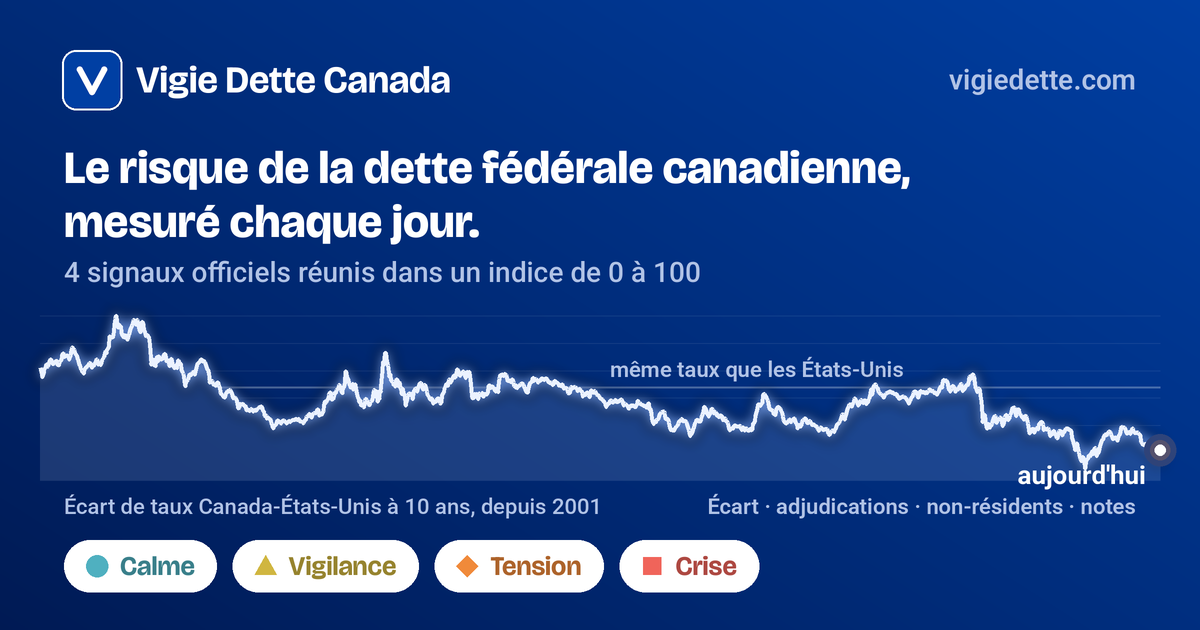
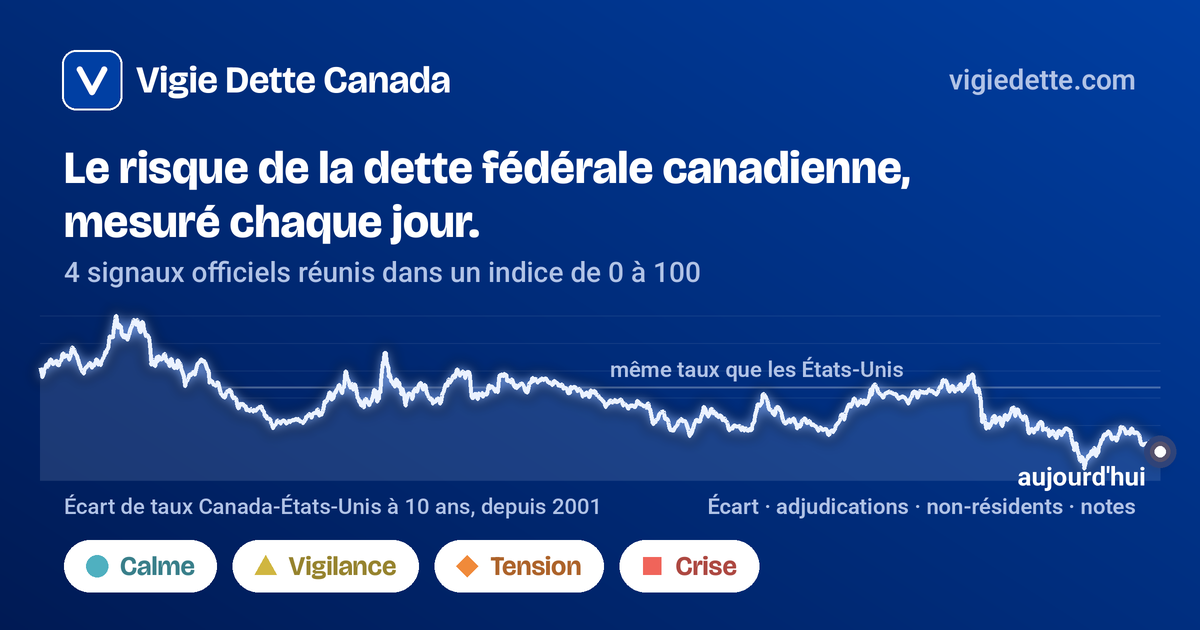
Données du 2026-11-10

diff --git a/canada/index.html b/canada/index.html
@@ -22,7 +22,7 @@
 <meta property="og:url" data-i18n-attr="content:url" content="https://vigiedette.com/canada/">
 <meta property="og:title" data-i18n-attr="content:titre" content="Vigie Dette Canada · Le risque de la dette fédérale, chaque jour">
 <meta property="og:description" data-instantane="resume" content="Indice Vigie 15/100, calme. Les signaux de la dette canadienne sont calmes. Le reste des marchés financiers est aussi calme.">
-<meta property="og:image" data-instantane="image" content="https://vigiedette.com/assets/images/partage-canada-fr.png?v=43f84a84">
+<meta property="og:image" data-instantane="image" content="https://vigiedette.com/assets/images/partage-canada-fr.png?v=d7a544ac">
 <meta property="og:image:width" content="1200">
 <meta property="og:image:height" content="630">
 <meta property="og:image:alt" data-i18n-attr="content:image.alt" content="Vigie Dette Canada : le risque de la dette fédérale canadienne, mesuré chaque jour, avec l’écart de taux Canada-États-Unis à 10 ans depuis 2001">
@@ -83,7 +83,7 @@
       "inLanguage": "fr",
       "name": "Vigie Dette Canada · Le risque de la dette fédérale, chaque jour",
       "description": "Indice Vigie 15/100, calme. Les signaux de la dette canadienne sont calmes. Le reste des marchés financiers est aussi calme.",
-      "dateModified": "2026-11-06",
+      "dateModified": "2026-11-09",
       "isPartOf": {
         "@id": "https://vigiedette.com/#site"
       },
@@ -134,7 +134,7 @@
             <p class="repere" id="repere" hidden><span id="repere-texte"></span> <button type="button" class="info" id="repere-info" data-tip="" aria-label="Détail du repère" data-i18n-attr="aria-label:repere.aria">i</button></p>
     </div>
     <p class="stamp">
-      <span id="donnees">Données du 6 nov. 2026</span>
+      <span id="donnees">Données du 9 nov. 2026</span>
       <a class="retour" href="/canada/methode.html" data-i18n="entete.methode">Méthode de calcul</a>
     </p>
     <div id="indice-desc"><details class="desc"><summary><span class="desc-ouvrir">Afficher la description</span><span class="desc-fermer">Masquer la description</span></summary></details></div>
@@ -143,7 +143,7 @@
 
 <main class="wrap">
 
-  <section class="summary signals-summary" id="summary" aria-label="Synthèse des quatre signaux" data-i18n-attr="aria-label:ca.synthese.aria"><a class="tile" href="#spread" data-level="calme"><span class="tile-name">Écart Canada-États-Unis 10 ans</span><span class="tile-value">-121 pb</span><span class="pill" data-level="calme">Calme</span><span class="tile-sub">Canada 10 ans 3,65 %</span></a><a class="tile" href="#adjudications" data-level="vigilance"><span class="tile-name">Couverture des adjudications</span><span class="tile-value">2,22</span><span class="pill" data-level="vigilance">Vigilance</span></a><a class="tile" href="#non-residents" data-level="calme"><span class="tile-name">Part des non-résidents</span><span class="tile-value">45,9 %</span><span class="pill" data-level="calme">Calme</span></a><a class="tile" href="#notations" data-level="calme"><span class="tile-name">Note la plus basse</span><span class="tile-value">AA+</span><span class="pill" data-level="calme">Calme</span></a></section>
+  <section class="summary signals-summary" id="summary" aria-label="Synthèse des quatre signaux" data-i18n-attr="aria-label:ca.synthese.aria"><a class="tile" href="#spread" data-level="calme"><span class="tile-name">Écart Canada-États-Unis 10 ans</span><span class="tile-value">-125 pb</span><span class="pill" data-level="calme">Calme</span><span class="tile-sub">Canada 10 ans 3,63 %</span></a><a class="tile" href="#adjudications" data-level="vigilance"><span class="tile-name">Couverture des adjudications</span><span class="tile-value">2,22</span><span class="pill" data-level="vigilance">Vigilance</span></a><a class="tile" href="#non-residents" data-level="calme"><span class="tile-name">Part des non-résidents</span><span class="tile-value">45,9 %</span><span class="pill" data-level="calme">Calme</span></a><a class="tile" href="#notations" data-level="calme"><span class="tile-name">Note la plus basse</span><span class="tile-value">AA+</span><span class="pill" data-level="calme">Calme</span></a></section>
 
   <div class="signals">
 
@@ -183,8 +183,8 @@
           <h2 data-i18n="ca.spread.titre">Écart de taux Canada-États-Unis</h2>
         </div>
         <div class="signal-mesure">
-          <div class="signal-now"><span class="big" data-now="spread">-121 pb</span><span class="pill" data-pill="spread" data-level="calme">Calme</span><button type="button" class="info" data-delta="spread" data-tip="" aria-label="Détail du chiffre" data-i18n-attr="aria-label:chiffre.aria">i</button></div>
-          <p class="signal-taux" data-taux="spread">Canada 10 ans 3,65 % · États-Unis 4,86 %</p>
+          <div class="signal-now"><span class="big" data-now="spread">-125 pb</span><span class="pill" data-pill="spread" data-level="calme">Calme</span><button type="button" class="info" data-delta="spread" data-tip="" aria-label="Détail du chiffre" data-i18n-attr="aria-label:chiffre.aria">i</button></div>
+          <p class="signal-taux" data-taux="spread">Canada 10 ans 3,63 % · États-Unis 4,88 %</p>
         </div>
       </div>
       <details class="desc">

diff --git a/en/canada/index.html b/en/canada/index.html
@@ -22,7 +22,7 @@
 <meta property="og:url" data-i18n-attr="content:url" content="https://vigiedette.com/en/canada/">
 <meta property="og:title" data-i18n-attr="content:titre" content="Vigie Dette Canada · Canadian federal debt risk, every day">
 <meta property="og:description" data-instantane="resume" content="Vigie Index 15/100, calm. Canadian debt signals are calm. The rest of the financial markets are also calm.">
-<meta property="og:image" data-instantane="image" content="https://vigiedette.com/assets/images/partage-canada-en.png?v=d2849a65">
+<meta property="og:image" data-instantane="image" content="https://vigiedette.com/assets/images/partage-canada-en.png?v=01573e93">
 <meta property="og:image:width" content="1200">
 <meta property="og:image:height" content="630">
 <meta property="og:image:alt" data-i18n-attr="content:image.alt" content="Vigie Dette Canada: the risk on Canadian federal debt, measured every day, with the Canada-US 10-year yield gap since 2001">
@@ -83,7 +83,7 @@
       "inLanguage": "en",
       "name": "Vigie Dette Canada · Canadian federal debt risk, every day",
       "description": "Vigie Index 15/100, calm. Canadian debt signals are calm. The rest of the financial markets are also calm.",
-      "dateModified": "2026-11-06",
+      "dateModified": "2026-11-09",
       "isPartOf": {
         "@id": "https://vigiedette.com/#site"
       },
@@ -134,7 +134,7 @@
             <p class="repere" id="repere" hidden><span id="repere-texte"></span> <button type="button" class="info" id="repere-info" data-tip="" aria-label="Details of this landmark" data-i18n-attr="aria-label:repere.aria">i</button></p>
     </div>
     <p class="stamp">
-      <span id="donnees">Data as of 6 Nov 2026</span>
+      <span id="donnees">Data as of 9 Nov 2026</span>
       <a class="retour" href="/en/canada/methode.html" data-i18n="entete.methode">How it is calculated</a>
     </p>
     <div id="indice-desc"><details class="desc"><summary><span class="desc-ouvrir">Show the description</span><span class="desc-fermer">Hide the description</span></summary></details></div>
@@ -143,7 +143,7 @@
 
 <main class="wrap">
 
-  <section class="summary signals-summary" id="summary" aria-label="Summary of the four signals" data-i18n-attr="aria-label:ca.synthese.aria"><a class="tile" href="#spread" data-level="calme"><span class="tile-name">10-year Canada-US gap</span><span class="tile-value">-121 bp</span><span class="pill" data-level="calme">Calm</span><span class="tile-sub">10-year Canada 3.65%</span></a><a class="tile" href="#adjudications" data-level="vigilance"><span class="tile-name">Auction cover</span><span class="tile-value">2.22</span><span class="pill" data-level="vigilance">Watch</span></a><a class="tile" href="#non-residents" data-level="calme"><span class="tile-name">Non-resident share</span><span class="tile-value">45.9%</span><span class="pill" data-level="calme">Calm</span></a><a class="tile" href="#notations" data-level="calme"><span class="tile-name">Lowest rating</span><span class="tile-value">AA+</span><span class="pill" data-level="calme">Calm</span></a></section>
+  <section class="summary signals-summary" id="summary" aria-label="Summary of the four signals" data-i18n-attr="aria-label:ca.synthese.aria"><a class="tile" href="#spread" data-level="calme"><span class="tile-name">10-year Canada-US gap</span><span class="tile-value">-125 bp</span><span class="pill" data-level="calme">Calm</span><span class="tile-sub">10-year Canada 3.63%</span></a><a class="tile" href="#adjudications" data-level="vigilance"><span class="tile-name">Auction cover</span><span class="tile-value">2.22</span><span class="pill" data-level="vigilance">Watch</span></a><a class="tile" href="#non-residents" data-level="calme"><span class="tile-name">Non-resident share</span><span class="tile-value">45.9%</span><span class="pill" data-level="calme">Calm</span></a><a class="tile" href="#notations" data-level="calme"><span class="tile-name">Lowest rating</span><span class="tile-value">AA+</span><span class="pill" data-level="calme">Calm</span></a></section>
 
   <div class="signals">
 
@@ -183,8 +183,8 @@
           <h2 data-i18n="ca.spread.titre">Canada-US yield gap</h2>
         </div>
         <div class="signal-mesure">
-          <div class="signal-now"><span class="big" data-now="spread">-121 bp</span><span class="pill" data-pill="spread" data-level="calme">Calm</span><button type="button" class="info" data-delta="spread" data-tip="" aria-label="Details of the figure" data-i18n-attr="aria-label:chiffre.aria">i</button></div>
-          <p class="signal-taux" data-taux="spread">10-year Canada 3.65% · US 4.86%</p>
+          <div class="signal-now"><span class="big" data-now="spread">-125 bp</span><span class="pill" data-pill="spread" data-level="calme">Calm</span><button type="button" class="info" data-delta="spread" data-tip="" aria-label="Details of the figure" data-i18n-attr="aria-label:chiffre.aria">i</button></div>
+          <p class="signal-taux" data-taux="spread">10-year Canada 3.63% · US 4.88%</p>
         </div>
       </div>
       <details class="desc">

diff --git a/canada/ecart-taux-canada-etats-unis/index.html b/canada/ecart-taux-canada-etats-unis/index.html
@@ -21,8 +21,8 @@
 <meta property="og:locale" data-i18n-attr="content:og.locale" content="fr_CA">
 <meta property="og:url" data-i18n-attr="content:url" content="https://vigiedette.com/canada/ecart-taux-canada-etats-unis/">
 <meta property="og:title" data-i18n-attr="content:titre" content="Écart de taux Canada-États-Unis à 10 ans aujourd’hui · Vigie Dette Canada">
-<meta property="og:description" data-instantane="resume" content="L’écart entre les taux à 10 ans du Canada et des États-Unis est de -121 pb, niveau calme.">
-<meta property="og:image" data-instantane="image" content="https://vigiedette.com/assets/images/partage-canada-fr.png?v=43f84a84">
+<meta property="og:description" data-instantane="resume" content="L’écart entre les taux à 10 ans du Canada et des États-Unis est de -125 pb, niveau calme.">
+<meta property="og:image" data-instantane="image" content="https://vigiedette.com/assets/images/partage-canada-fr.png?v=d7a544ac">
 <meta property="og:image:width" content="1200">
 <meta property="og:image:height" content="630">
 <meta property="og:image:alt" data-i18n-attr="content:image.alt" content="Vigie Dette Canada : le risque de la dette fédérale canadienne, mesuré chaque jour, avec l’écart de taux Canada-États-Unis à 10 ans depuis 2001">
@@ -37,8 +37,8 @@
       "url": "https://vigiedette.com/canada/ecart-taux-canada-etats-unis/",
       "inLanguage": "fr",
       "name": "Écart de taux Canada-États-Unis à 10 ans aujourd’hui · Vigie Dette Canada",
-      "description": "L’écart entre les taux à 10 ans du Canada et des États-Unis est de -121 pb, niveau calme.",
-      "dateModified": "2026-11-06",
+      "description": "L’écart entre les taux à 10 ans du Canada et des États-Unis est de -125 pb, niveau calme.",
+      "dateModified": "2026-11-09",
       "isPartOf": {
         "@id": "https://vigiedette.com/#site"
       },
@@ -98,9 +98,9 @@
         <button class="btn-icone" id="theme-toggle" type="button" aria-label="Changer de thème, clair ou sombre" data-tip="Thème clair ou sombre" data-i18n-attr="aria-label:theme.aria;data-tip:theme.tip"><svg viewBox="0 0 24 24" aria-hidden="true"><path d="M12 7c-2.76 0-5 2.24-5 5s2.24 5 5 5 5-2.24 5-5-2.24-5-5-5zM2 13h2c.55 0 1-.45 1-1s-.45-1-1-1H2c-.55 0-1 .45-1 1s.45 1 1 1zm18 0h2c.55 0 1-.45 1-1s-.45-1-1-1h-2c-.55 0-1 .45-1 1s.45 1 1 1zM11 2v2c0 .55.45 1 1 1s1-.45 1-1V2c0-.55-.45-1-1-1s-1 .45-1 1zm0 18v2c0 .55.45 1 1 1s1-.45 1-1v-2c0-.55-.45-1-1-1s-1 .45-1 1zM5.99 4.58c-.39-.39-1.03-.39-1.41 0-.39.39-.39 1.03 0 1.41l1.06 1.06c.39.39 1.03.39 1.41 0s.39-1.03 0-1.41L5.99 4.58zm12.37 12.37c-.39-.39-1.03-.39-1.41 0-.39.39-.39 1.03 0 1.41l1.06 1.06c.39.39 1.03.39 1.41 0 .39-.39.39-1.03 0-1.41l-1.06-1.06zm1.06-10.96c.39-.39.39-1.03 0-1.41-.39-.39-1.03-.39-1.41 0l-1.06 1.06c-.39.39-.39 1.03 0 1.41s1.03.39 1.41 0l1.06-1.06zM7.05 18.36c.39-.39.39-1.03 0-1.41-.39-.39-1.03-.39-1.41 0l-1.06 1.06c-.39.39-.39 1.03 0 1.41s1.03.39 1.41 0l1.06-1.06z"/></svg></button>
       </div>
     </div>
-    <p class="verdict">L’écart entre les taux à 10 ans du Canada et des États-Unis est de -121 pb, niveau calme.</p>
+    <p class="verdict">L’écart entre les taux à 10 ans du Canada et des États-Unis est de -125 pb, niveau calme.</p>
     <p class="stamp">
-      <span id="donnees">Données du 6 nov. 2026</span>
+      <span id="donnees">Données du 9 nov. 2026</span>
       <a class="retour" href="/canada/">← Tableau de bord</a>
       <a class="retour" href="/canada/methode.html">Méthode de calcul</a>
     </p>
@@ -117,8 +117,8 @@
           <h2 data-i18n="ca.spread.titre">Écart de taux Canada-États-Unis</h2>
         </div>
         <div class="signal-mesure">
-          <div class="signal-now"><span class="big" data-now="spread">-121 pb</span><span class="pill" data-pill="spread" data-level="calme">Calme</span><button type="button" class="info" data-delta="spread" data-tip="" aria-label="Détail du chiffre" data-i18n-attr="aria-label:chiffre.aria">i</button></div>
-          <p class="signal-taux" data-taux="spread">Canada 10 ans 3,65 % · États-Unis 4,86 %</p>
+          <div class="signal-now"><span class="big" data-now="spread">-125 pb</span><span class="pill" data-pill="spread" data-level="calme">Calme</span><button type="button" class="info" data-delta="spread" data-tip="" aria-label="Détail du chiffre" data-i18n-attr="aria-label:chiffre.aria">i</button></div>
+          <p class="signal-taux" data-taux="spread">Canada 10 ans 3,63 % · États-Unis 4,88 %</p>
         </div>
       </div>
       <details class="desc">

diff --git a/en/canada/canada-us-bond-spread/index.html b/en/canada/canada-us-bond-spread/index.html
@@ -21,8 +21,8 @@
 <meta property="og:locale" data-i18n-attr="content:og.locale" content="en_CA">
 <meta property="og:url" data-i18n-attr="content:url" content="https://vigiedette.com/en/canada/canada-us-bond-spread/">
 <meta property="og:title" data-i18n-attr="content:titre" content="10-year Canada-US yield gap today · Vigie Dette Canada">
-<meta property="og:description" data-instantane="resume" content="The gap between Canada’s and the US 10-year yields is -121 bp, calm level.">
-<meta property="og:image" data-instantane="image" content="https://vigiedette.com/assets/images/partage-canada-en.png?v=d2849a65">
+<meta property="og:description" data-instantane="resume" content="The gap between Canada’s and the US 10-year yields is -125 bp, calm level.">
+<meta property="og:image" data-instantane="image" content="https://vigiedette.com/assets/images/partage-canada-en.png?v=01573e93">
 <meta property="og:image:width" content="1200">
 <meta property="og:image:height" content="630">
 <meta property="og:image:alt" data-i18n-attr="content:image.alt" content="Vigie Dette Canada: the risk on Canadian federal debt, measured every day, with the Canada-US 10-year yield gap since 2001">
@@ -37,8 +37,8 @@
       "url": "https://vigiedette.com/en/canada/canada-us-bond-spread/",
       "inLanguage": "en",
       "name": "10-year Canada-US yield gap today · Vigie Dette Canada",
-      "description": "The gap between Canada’s and the US 10-year yields is -121 bp, calm level.",
-      "dateModified": "2026-11-06",
+      "description": "The gap between Canada’s and the US 10-year yields is -125 bp, calm level.",
+      "dateModified": "2026-11-09",
       "isPartOf": {
         "@id": "https://vigiedette.com/#site"
       },
@@ -98,9 +98,9 @@
         <button class="btn-icone" id="theme-toggle" type="button" aria-label="Switch between light and dark theme" data-tip="Light or dark theme" data-i18n-attr="aria-label:theme.aria;data-tip:theme.tip"><svg viewBox="0 0 24 24" aria-hidden="true"><path d="M12 7c-2.76 0-5 2.24-5 5s2.24 5 5 5 5-2.24 5-5-2.24-5-5-5zM2 13h2c.55 0 1-.45 1-1s-.45-1-1-1H2c-.55 0-1 .45-1 1s.45 1 1 1zm18 0h2c.55 0 1-.45 1-1s-.45-1-1-1h-2c-.55 0-1 .45-1 1s.45 1 1 1zM11 2v2c0 .55.45 1 1 1s1-.45 1-1V2c0-.55-.45-1-1-1s-1 .45-1 1zm0 18v2c0 .55.45 1 1 1s1-.45 1-1v-2c0-.55-.45-1-1-1s-1 .45-1 1zM5.99 4.58c-.39-.39-1.03-.39-1.41 0-.39.39-.39 1.03 0 1.41l1.06 1.06c.39.39 1.03.39 1.41 0s.39-1.03 0-1.41L5.99 4.58zm12.37 12.37c-.39-.39-1.03-.39-1.41 0-.39.39-.39 1.03 0 1.41l1.06 1.06c.39.39 1.03.39 1.41 0 .39-.39.39-1.03 0-1.41l-1.06-1.06zm1.06-10.96c.39-.39.39-1.03 0-1.41-.39-.39-1.03-.39-1.41 0l-1.06 1.06c-.39.39-.39 1.03 0 1.41s1.03.39 1.41 0l1.06-1.06zM7.05 18.36c.39-.39.39-1.03 0-1.41-.39-.39-1.03-.39-1.41 0l-1.06 1.06c-.39.39-.39 1.03 0 1.41s1.03.39 1.41 0l1.06-1.06z"/></svg></button>
       </div>
     </div>
-    <p class="verdict">The gap between Canada’s and the US 10-year yields is -121 bp, calm level.</p>
+    <p class="verdict">The gap between Canada’s and the US 10-year yields is -125 bp, calm level.</p>
     <p class="stamp">
-      <span id="donnees">Data as of 6 Nov 2026</span>
+      <span id="donnees">Data as of 9 Nov 2026</span>
       <a class="retour" href="/en/canada/">← Dashboard</a>
       <a class="retour" href="/en/canada/methode.html">How it is calculated</a>
     </p>
@@ -117,8 +117,8 @@
           <h2 data-i18n="ca.spread.titre">Canada-US yield gap</h2>
         </div>
         <div class="signal-mesure">
-          <div class="signal-now"><span class="big" data-now="spread">-121 bp</span><span class="pill" data-pill="spread" data-level="calme">Calm</span><button type="button" class="info" data-delta="spread" data-tip="" aria-label="Details of the figure" data-i18n-attr="aria-label:chiffre.aria">i</button></div>
-          <p class="signal-taux" data-taux="spread">10-year Canada 3.65% · US 4.86%</p>
+          <div class="signal-now"><span class="big" data-now="spread">-125 bp</span><span class="pill" data-pill="spread" data-level="calme">Calm</span><button type="button" class="info" data-delta="spread" data-tip="" aria-label="Details of the figure" data-i18n-attr="aria-label:chiffre.aria">i</button></div>
+          <p class="signal-taux" data-taux="spread">10-year Canada 3.63% · US 4.88%</p>
         </div>
       </div>
       <details class="desc">

diff --git a/canada/adjudications-obligations-canada/index.html b/canada/adjudications-obligations-canada/index.html
@@ -22,7 +22,7 @@
 <meta property="og:url" data-i18n-attr="content:url" content="https://vigiedette.com/canada/adjudications-obligations-canada/">
 <meta property="og:title" data-i18n-attr="content:titre" content="Adjudications d’obligations du Canada à 10 ans, taux de couverture · Vigie Dette Canada">
 <meta property="og:description" data-instantane="resume" content="À la dernière adjudication d’obligations à 10 ans, les investisseurs ont demandé 2,22 fois le montant vendu, niveau vigilance.">
-<meta property="og:image" data-instantane="image" content="https://vigiedette.com/assets/images/partage-canada-fr.png?v=43f84a84">
+<meta property="og:image" data-instantane="image" content="https://vigiedette.com/assets/images/partage-canada-fr.png?v=d7a544ac">
 <meta property="og:image:width" content="1200">
 <meta property="og:image:height" content="630">
 <meta property="og:image:alt" data-i18n-attr="content:image.alt" content="Vigie Dette Canada : le risque de la dette fédérale canadienne, mesuré chaque jour, avec l’écart de taux Canada-États-Unis à 10 ans depuis 2001">
@@ -38,7 +38,7 @@
       "inLanguage": "fr",
       "name": "Adjudications d’obligations du Canada à 10 ans, taux de couverture · Vigie Dette Canada",
       "description": "À la dernière adjudication d’obligations à 10 ans, les investisseurs ont demandé 2,22 fois le montant vendu, niveau vigilance.",
-      "dateModified": "2026-11-06",
+      "dateModified": "2026-11-09",
       "isPartOf": {
         "@id": "https://vigiedette.com/#site"
       },
@@ -100,7 +100,7 @@
     </div>
     <p class="verdict">À la dernière adjudication d’obligations à 10 ans, les investisseurs ont demandé 2,22 fois le montant vendu, niveau vigilance.</p>
     <p class="stamp">
-      <span id="donnees">Données du 6 nov. 2026</span>
+      <span id="donnees">Données du 9 nov. 2026</span>
       <a class="retour" href="/canada/">← Tableau de bord</a>
       <a class="retour" href="/canada/methode.html">Méthode de calcul</a>
     </p>

diff --git a/canada/dette-canadienne-non-residents/index.html b/canada/dette-canadienne-non-residents/index.html
@@ -22,7 +22,7 @@
 <meta property="og:url" data-i18n-attr="content:url" content="https://vigiedette.com/canada/dette-canadienne-non-residents/">
 <meta property="og:title" data-i18n-attr="content:titre" content="Dette fédérale canadienne détenue par les non-résidents · Vigie Dette Canada">
 <meta property="og:description" data-instantane="resume" content="Les investisseurs étrangers détiennent 45,9 % des obligations du gouvernement du Canada, niveau calme.">
-<meta property="og:image" data-instantane="image" content="https://vigiedette.com/assets/images/partage-canada-fr.png?v=43f84a84">
+<meta property="og:image" data-instantane="image" content="https://vigiedette.com/assets/images/partage-canada-fr.png?v=d7a544ac">
 <meta property="og:image:width" content="1200">
 <meta property="og:image:height" content="630">
 <meta property="og:image:alt" data-i18n-attr="content:image.alt" content="Vigie Dette Canada : le risque de la dette fédérale canadienne, mesuré chaque jour, avec l’écart de taux Canada-États-Unis à 10 ans depuis 2001">
@@ -38,7 +38,7 @@
       "inLanguage": "fr",
       "name": "Dette fédérale canadienne détenue par les non-résidents · Vigie Dette Canada",
       "description": "Les investisseurs étrangers détiennent 45,9 % des obligations du gouvernement du Canada, niveau calme.",
-      "dateModified": "2026-11-06",
+      "dateModified": "2026-11-09",
       "isPartOf": {
         "@id": "https://vigiedette.com/#site"
       },
@@ -100,7 +100,7 @@
     </div>
     <p class="verdict">Les investisseurs étrangers détiennent 45,9 % des obligations du gouvernement du Canada, niveau calme.</p>
     <p class="stamp">
-      <span id="donnees">Données du 6 nov. 2026</span>
+      <span id="donnees">Données du 9 nov. 2026</span>
       <a class="retour" href="/canada/">← Tableau de bord</a>
       <a class="retour" href="/canada/methode.html">Méthode de calcul</a>
     </p>

diff --git a/en/canada/canada-bond-auctions/index.html b/en/canada/canada-bond-auctions/index.html
@@ -22,7 +22,7 @@
 <meta property="og:url" data-i18n-attr="content:url" content="https://vigiedette.com/en/canada/canada-bond-auctions/">
 <meta property="og:title" data-i18n-attr="content:titre" content="10-year Government of Canada bond auctions, cover ratio · Vigie Dette Canada">
 <meta property="og:description" data-instantane="resume" content="At the latest 10-year bond auction, investors bid 2.22 times the amount sold, watch level.">
-<meta property="og:image" data-instantane="image" content="https://vigiedette.com/assets/images/partage-canada-en.png?v=d2849a65">
+<meta property="og:image" data-instantane="image" content="https://vigiedette.com/assets/images/partage-canada-en.png?v=01573e93">
 <meta property="og:image:width" content="1200">
 <meta property="og:image:height" content="630">
 <meta property="og:image:alt" data-i18n-attr="content:image.alt" content="Vigie Dette Canada: the risk on Canadian federal debt, measured every day, with the Canada-US 10-year yield gap since 2001">
@@ -38,7 +38,7 @@
       "inLanguage": "en",
       "name": "10-year Government of Canada bond auctions, cover ratio · Vigie Dette Canada",
       "description": "At the latest 10-year bond auction, investors bid 2.22 times the amount sold, watch level.",
-      "dateModified": "2026-11-06",
+      "dateModified": "2026-11-09",
       "isPartOf": {
         "@id": "https://vigiedette.com/#site"
       },
@@ -100,7 +100,7 @@
     </div>
     <p class="verdict">At the latest 10-year bond auction, investors bid 2.22 times the amount sold, watch level.</p>
     <p class="stamp">
-      <span id="donnees">Data as of 6 Nov 2026</span>
+      <span id="donnees">Data as of 9 Nov 2026</span>
       <a class="retour" href="/en/canada/">← Dashboard</a>
       <a class="retour" href="/en/canada/methode.html">How it is calculated</a>
     </p>

diff --git a/en/canada/canada-foreign-holdings/index.html b/en/canada/canada-foreign-holdings/index.html
@@ -22,7 +22,7 @@
 <meta property="og:url" data-i18n-attr="content:url" content="https://vigiedette.com/en/canada/canada-foreign-holdings/">
 <meta property="og:title" data-i18n-attr="content:titre" content="Canadian federal debt held by foreign investors · Vigie Dette Canada">
 <meta property="og:description" data-instantane="resume" content="Foreign investors hold 45.9% of Government of Canada bonds, calm level.">
-<meta property="og:image" data-instantane="image" content="https://vigiedette.com/assets/images/partage-canada-en.png?v=d2849a65">
+<meta property="og:image" data-instantane="image" content="https://vigiedette.com/assets/images/partage-canada-en.png?v=01573e93">
 <meta property="og:image:width" content="1200">
 <meta property="og:image:height" content="630">
 <meta property="og:image:alt" data-i18n-attr="content:image.alt" content="Vigie Dette Canada: the risk on Canadian federal debt, measured every day, with the Canada-US 10-year yield gap since 2001">
@@ -38,7 +38,7 @@
       "inLanguage": "en",
       "name": "Canadian federal debt held by foreign investors · Vigie Dette Canada",
       "description": "Foreign investors hold 45.9% of Government of Canada bonds, calm level.",
-      "dateModified": "2026-11-06",
+      "dateModified": "2026-11-09",
       "isPartOf": {
         "@id": "https://vigiedette.com/#site"
       },
@@ -100,7 +100,7 @@
     </div>
     <p class="verdict">Foreign investors hold 45.9% of Government of Canada bonds, calm level.</p>
     <p class="stamp">
-      <span id="donnees">Data as of 6 Nov 2026</span>
+      <span id="donnees">Data as of 9 Nov 2026</span>
       <a class="retour" href="/en/canada/">← Dashboard</a>
       <a class="retour" href="/en/canada/methode.html">How it is calculated</a>
     </p>

diff --git a/canada/notation-canada/index.html b/canada/notation-canada/index.html
@@ -22,7 +22,7 @@
 <meta property="og:url" data-i18n-attr="content:url" content="https://vigiedette.com/canada/notation-canada/">
 <meta property="og:title" data-i18n-attr="content:titre" content="Note du Canada par S&amp;P, Moody’s et Fitch · Vigie Dette Canada">
 <meta property="og:description" data-instantane="resume" content="La note la plus basse du Canada est AA+, niveau calme.">
-<meta property="og:image" data-instantane="image" content="https://vigiedette.com/assets/images/partage-canada-fr.png?v=43f84a84">
+<meta property="og:image" data-instantane="image" content="https://vigiedette.com/assets/images/partage-canada-fr.png?v=d7a544ac">
 <meta property="og:image:width" content="1200">
 <meta property="og:image:height" content="630">
 <meta property="og:image:alt" data-i18n-attr="content:image.alt" content="Vigie Dette Canada : le risque de la dette fédérale canadienne, mesuré chaque jour, avec l’écart de taux Canada-États-Unis à 10 ans depuis 2001">
@@ -38,7 +38,7 @@
       "inLanguage": "fr",
       "name": "Note du Canada par S&P, Moody’s et Fitch · Vigie Dette Canada",
       "description": "La note la plus basse du Canada est AA+, niveau calme.",
-      "dateModified": "2026-11-06",
+      "dateModified": "2026-11-09",
       "isPartOf": {
         "@id": "https://vigiedette.com/#site"
       },
@@ -100,7 +100,7 @@
     </div>
     <p class="verdict">La note la plus basse du Canada est AA+, niveau calme.</p>
     <p class="stamp">
-      <span id="donnees">Données du 6 nov. 2026</span>
+      <span id="donnees">Données du 9 nov. 2026</span>
       <a class="retour" href="/canada/">← Tableau de bord</a>
       <a class="retour" href="/canada/methode.html">Méthode de calcul</a>
     </p>

diff --git a/en/canada/canada-credit-rating/index.html b/en/canada/canada-credit-rating/index.html
@@ -22,7 +22,7 @@
 <meta property="og:url" data-i18n-attr="content:url" content="https://vigiedette.com/en/canada/canada-credit-rating/">
 <meta property="og:title" data-i18n-attr="content:titre" content="Canada’s credit rating by S&amp;P, Moody’s and Fitch · Vigie Dette Canada">
 <meta property="og:description" data-instantane="resume" content="Canada’s lowest credit rating is AA+, calm level.">
-<meta property="og:image" data-instantane="image" content="https://vigiedette.com/assets/images/partage-canada-en.png?v=d2849a65">
+<meta property="og:image" data-instantane="image" content="https://vigiedette.com/assets/images/partage-canada-en.png?v=01573e93">
 <meta property="og:image:width" content="1200">
 <meta property="og:image:height" content="630">
 <meta property="og:image:alt" data-i18n-attr="content:image.alt" content="Vigie Dette Canada: the risk on Canadian federal debt, measured every day, with the Canada-US 10-year yield gap since 2001">
@@ -38,7 +38,7 @@
       "inLanguage": "en",
       "name": "Canada’s credit rating by S&P, Moody’s and Fitch · Vigie Dette Canada",
       "description": "Canada’s lowest credit rating is AA+, calm level.",
-      "dateModified": "2026-11-06",
+      "dateModified": "2026-11-09",
       "isPartOf": {
         "@id": "https://vigiedette.com/#site"
       },
@@ -100,7 +100,7 @@
     </div>
     <p class="verdict">Canada’s lowest credit rating is AA+, calm level.</p>
     <p class="stamp">
-      <span id="donnees">Data as of 6 Nov 2026</span>
+      <span id="donnees">Data as of 9 Nov 2026</span>
       <a class="retour" href="/en/canada/">← Dashboard</a>
       <a class="retour" href="/en/canada/methode.html">How it is calculated</a>
     </p>
